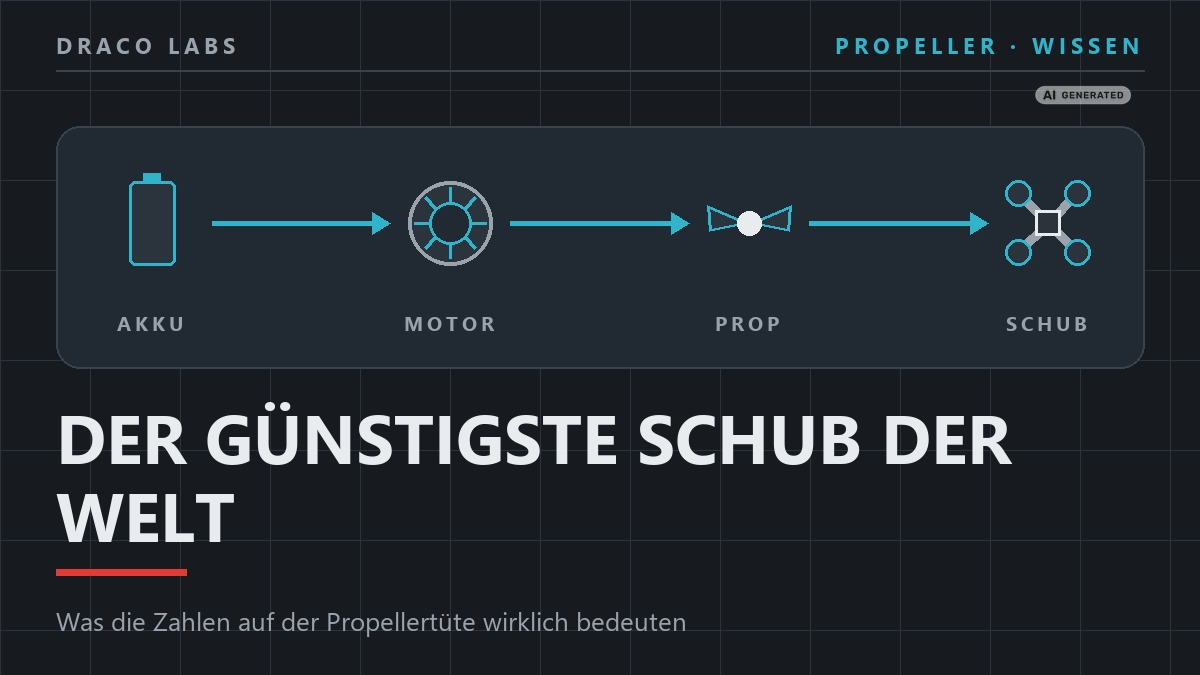
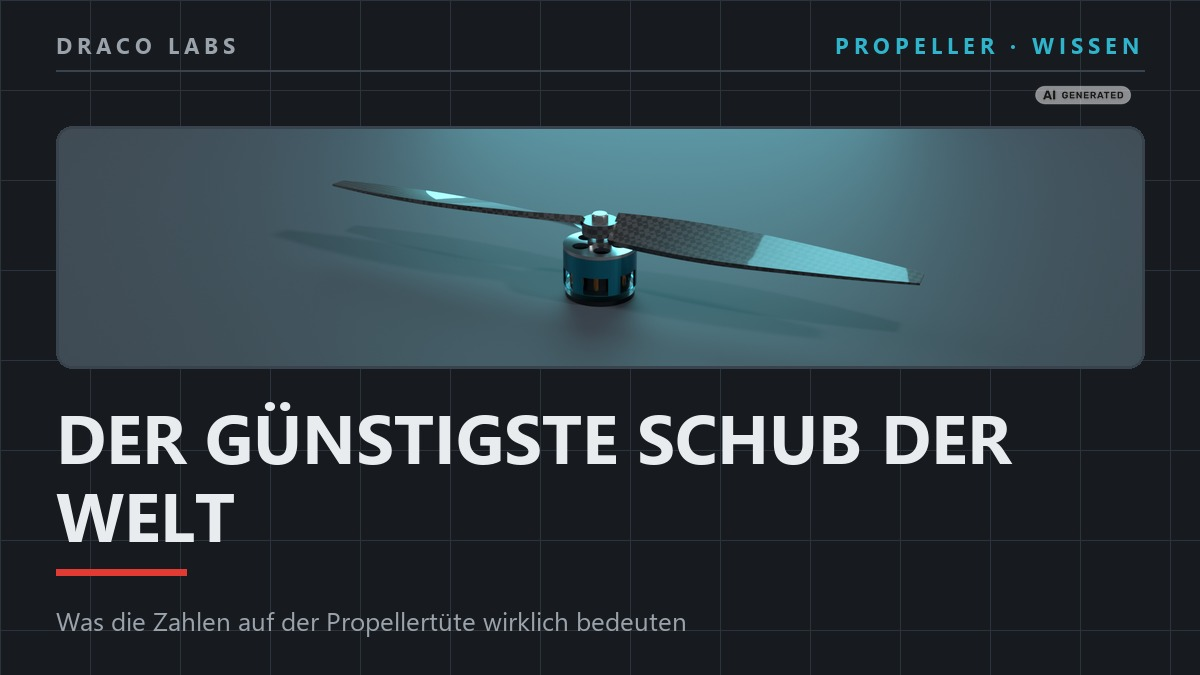
Propeller-Ratgeber: neuer Aufmacher als Render (15-Zoll-Carbonpropeller auf Motor), Stil wie FC

diff --git a/index.html b/index.html
@@ -229,9 +229,9 @@
         </div>
       </a>
       <a class="rg-kachel" href="ratgeber-propeller.html">
-        <img src="assets/ratgeber/propeller-hook.jpg" alt="Aufmacher im Draco-Labs-Look: „Der günstigste Schub der Welt“, darüber ein
-             Symbolstreifen von Akku über Motor und Prop zum Schub.  Mit KI erstellt,
-             Label „AI GENERATED“ im Bild."
+        <img src="assets/ratgeber/propeller-hook.jpg" alt="Aufmacher im Draco-Labs-Look: „Der günstigste Schub der Welt“, darüber das Rendering
+             eines 15-Zoll-Carbonpropellers auf seinem Motor in cyanfarbenem Licht.
+             Mit KI erstellt, Label „AI GENERATED“ im Bild."
              width="1200" height="675" loading="lazy">
         <div class="rg-text">
           <div class="rg-titel">Der günstigste Schub der Welt</div>
